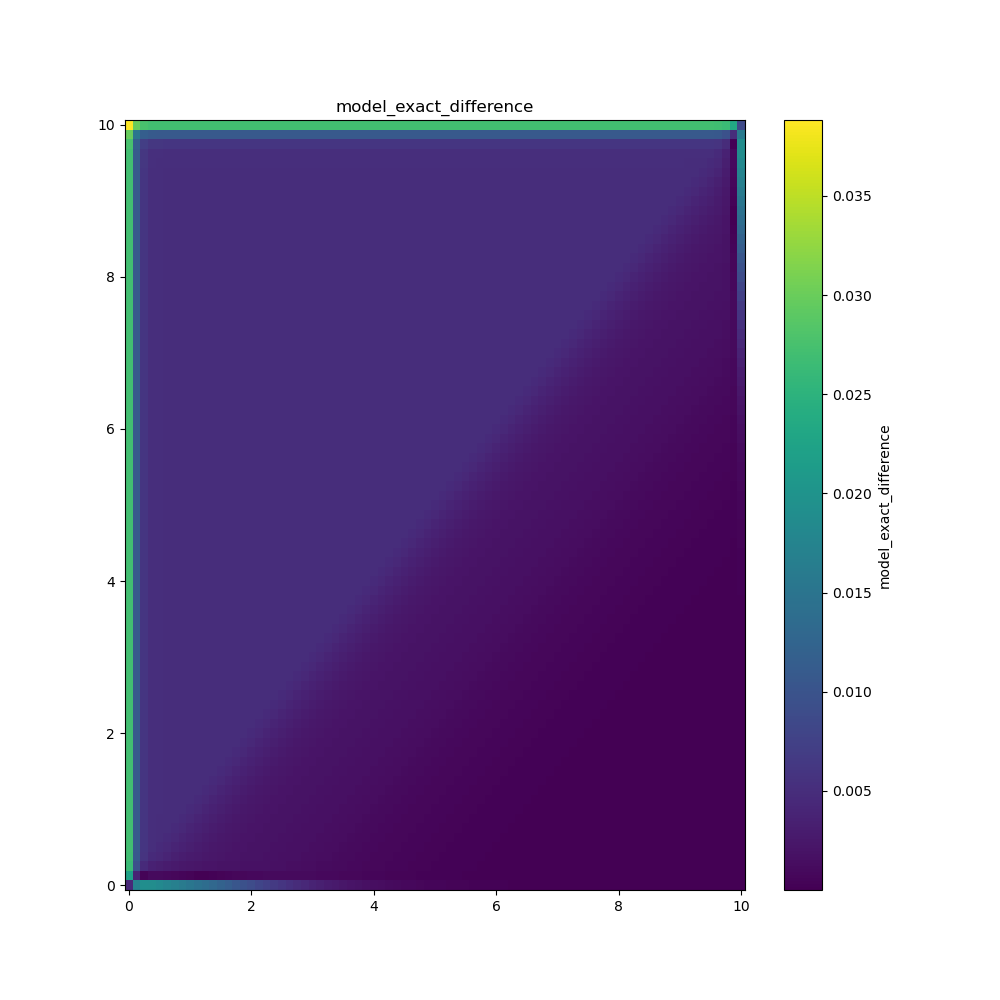
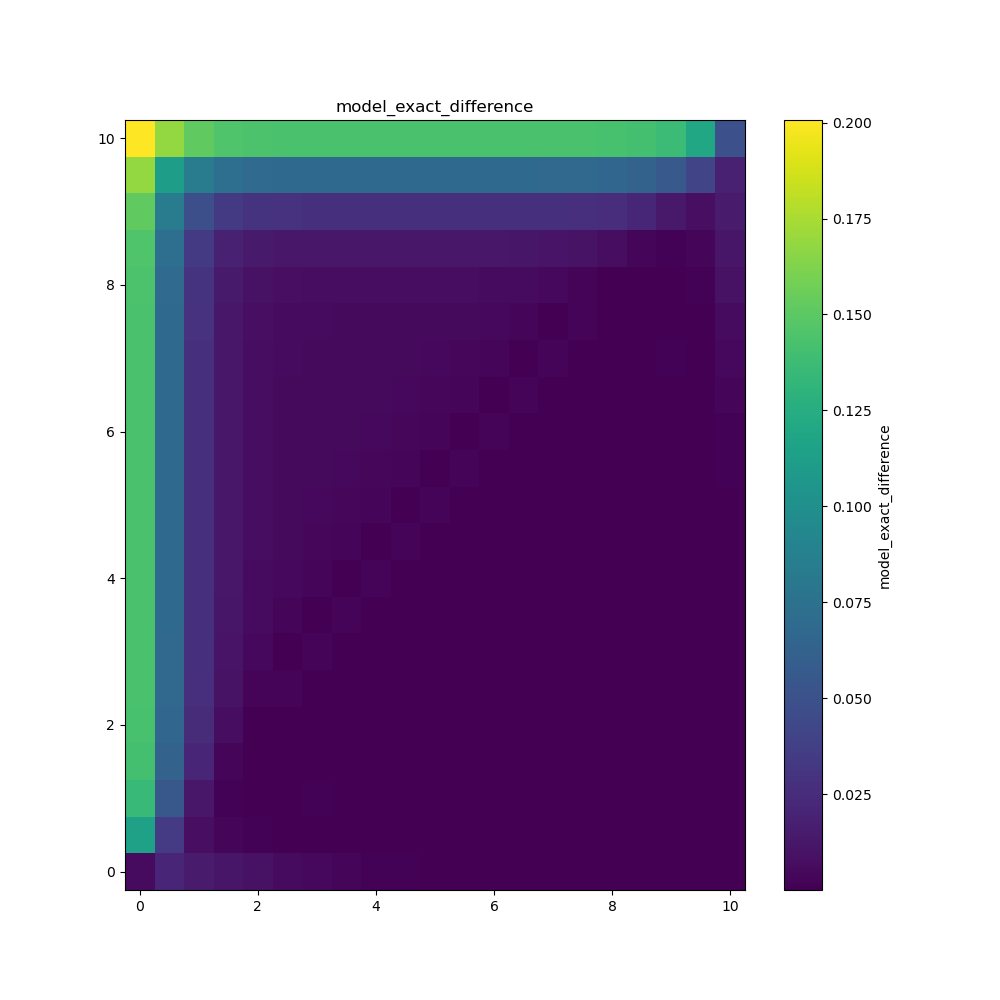
update

diff --git a/richards_example.py b/richards_example.py
@@ -6,7 +6,7 @@ from richards_functions import *
 
 
 # h = 0.1 should give an L2 error of 0.01
-nx_array = torch.tensor([10, 20, 40, 80])
+nx_array = torch.tensor([20])
 dt = 0.01
 
 # Check if GPU is available 
@@ -43,13 +43,14 @@ class AIRichards(nn.Module):
         # L is the lipschitz constant!
         L = 2
 
-        uuold   = dirichlet_boundary_condition(uold, u_exact(x_padded,y_padded,t+dt))
-        uuj     = dirichlet_boundary_condition(uj, u_exact(x_padded,y_padded,t+dt))
+        uuold   = dirichlet_boundary_condition(uold, u_exact(x_padded,y_padded,t))
 
         for i in range(imax):
             # Right hand side of Jacobi iteration
 
             uuj = dirichlet_boundary_condition(uj, u_exact(x_padded,y_padded,t+dt))
+
+            #plot_tensor(x_padded, y_padded, torch.abs(uuj -  u_exact(x_padded,y_padded,t+dt))[0,0,:,:].cpu().numpy(), "model_exact_difference2")
 
             div_k_grad_uj = - 0.5 * (Kappa(uuj, nx , nx) * self.diff(uuj)  + self.diff(Kappa(uuj, nx + 2, nx + 2 ) * uuj) - uj * self.diff(Kappa(uuj, nx + 2, nx + 2)))
 
@@ -60,9 +61,9 @@ class AIRichards(nn.Module):
 
             # L METHOD!!!
             #b = self.cmm(L * uuj + theta(uuold, nx+2, nx+2) - theta(uuj, nx+2, nx+2))
-            #div_k_grad_uj = - 0.5 * (Kappa(uuj, nx , nx) * self.diff(uujplus)  + self.diff(Kappa(uuj, nx + 2, nx + 2 ) * uujplus) - ujplus * self.diff(Kappa(uuj, nx + 2, nx + 2)))   
-            ## Need to check this is the right iteration scheme
-            #A = self.cmm(L * uujplus) + dt * div_k_grad_uj
+            #div_k_grad_uj = - 0.5 * (Kappa(uuj, nx , nx) * self.diff(uuj)  + self.diff(Kappa(uuj, nx + 2, nx + 2 ) * uuj) - uj * self.diff(Kappa(uuj, nx + 2, nx + 2)))   
+            # Need to check this is the right iteration scheme
+            #A = self.cmm(L * uuj) + dt * div_k_grad_uj
             #D = self.diag
             #ujplus = uj  + self.omega * (b - A) # residual loop. Is scale of D right? is A right? Is the balance of uuj and uujplus right?
             
@@ -73,8 +74,6 @@ class AIRichards(nn.Module):
             print(f"L2 Difference between uj_plus and u_j is {loss(ujplus, uj)}")
 
             uj[:]= ujplus[:]
-
-            print(f"L2 Difference between uj_plus and u_j is {loss(ujplus, uj)}")
 
         return ujplus  
 itime = 0
@@ -125,7 +124,7 @@ with torch.no_grad():
         model = AIRichards(w1, wm, bias_initializer, beta, diag, length=length, omega=omega).to(device)
         t=0
 
-        u_new = model(uold, uj, t, dt, imax=500)
+        u_new = model(uold, uj, t, dt, imax=1000)
         error1 = u_new - u_exact(x, y, t+dt)
 
         plot_tensor(x_padded, y_padded, u_exact(x_padded,y_padded, t+dt)[0,0,:,:].cpu().numpy(), "exact_solution")
@@ -134,12 +133,14 @@ with torch.no_grad():
 
         L2_error.append(loss(u_new, u_exact(x, y, t+dt)))
 
+'''
 fig, ax = plt.subplots(1,1, figsize=(6,6))
-plt.loglog(1/nx_array.cpu().numpy(), L2_error, linestyle="dashed", marker="o", label=r"$\Delta t = 0.1$")
-plt.plot(1/nx_array.cpu().numpy(), 0.2 *(1/nx_array.cpu().numpy())**2, color="black", linestyle="dotted", label=r"Slope $= -2$" )
+plt.loglog(1/(nx_array.cpu().numpy()), L2_error, linestyle="dashed", marker="o", label=r"$\Delta t = 0.1$")
+plt.plot(1/(nx_array.cpu().numpy()), 0.2 *(1/(nx_array.cpu().numpy()))**2, color="black", linestyle="dotted", label=r"Slope $= -2$" )
 ax.set_xlabel(r"$\Delta x$", fontsize=18)
 ax.set_ylabel(r"$L^2$ error", fontsize=18)
 plt.title("Error against mesh-size", fontsize=22)
 plt.legend(fontsize=16)
 plt.tight_layout()
 plt.savefig(f"plots/mesh_error")
+'''
